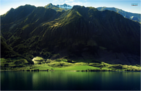
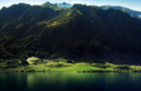
Fixed more issues with cupertino-ish, and removed watermark from mountainlake

diff --git a/GUI_/MainGui_manjaroGrey.py b/GUI_/MainGui_manjaroGrey.py
@@ -646,7 +646,7 @@ class Ui_MainWindow(QtCore.QObject):
     def handleButtonNextThemes(self):
         kwinThemes = {
             "ozone": self.themeRadio1,
-            "laptop": self.themeRadio2,
+            "cupertino-ish": self.themeRadio2,
             "oxygen": self.themeRadio3,
             "plastik": self.themeRadio4,
         }
